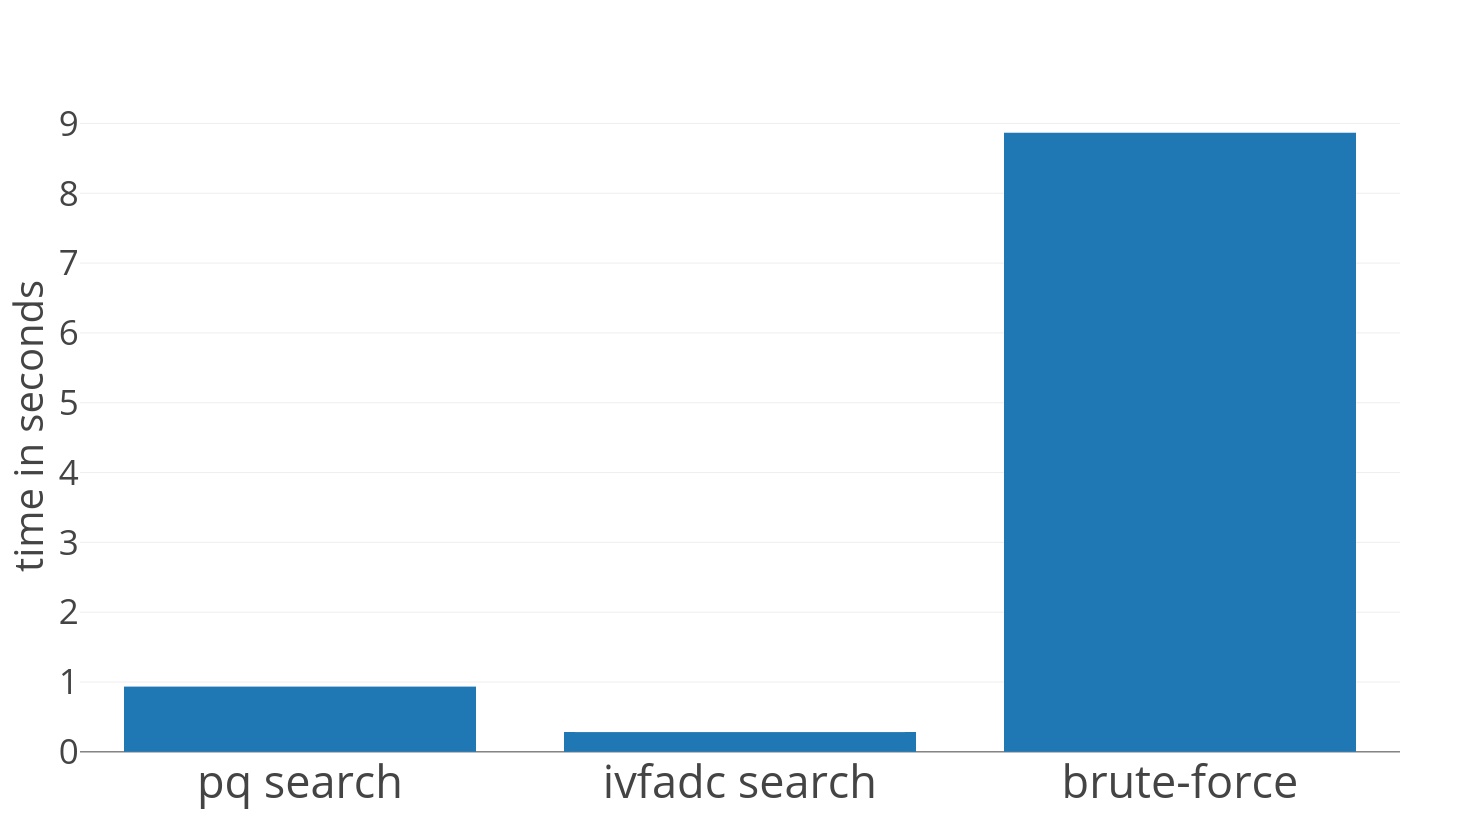
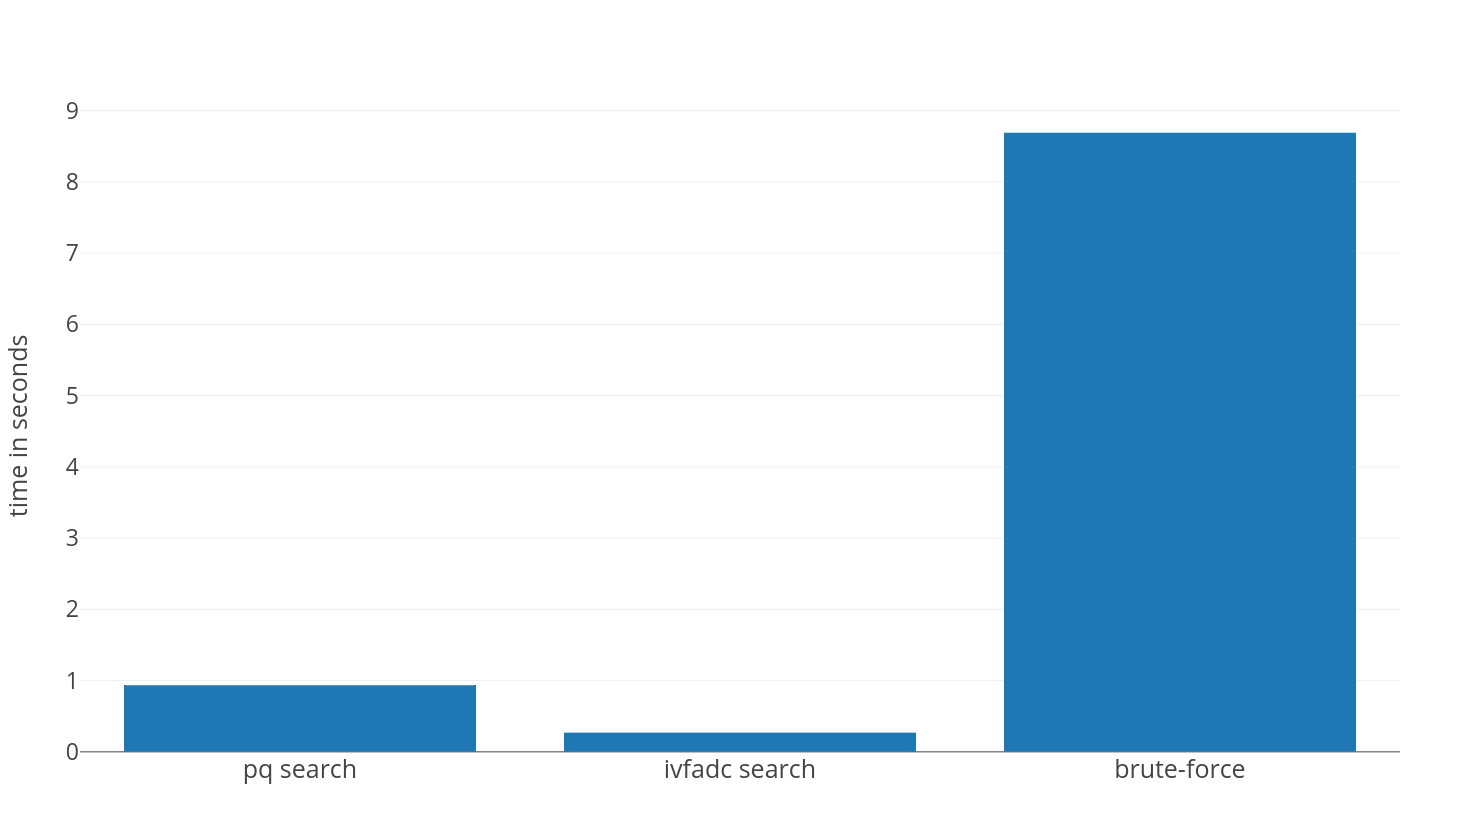
update time measurement graphic and README

diff --git a/README.md b/README.md
@@ -46,6 +46,12 @@ We implemented two types of index structures to accelerate word embedding operat
 | Product Quantization  | 0.93s         | 0.30          |
 | IVFADC                | 0.27s         | 0.31          |
 
+**Parameters:**
+* Number of subvectors per vector: 12
+* Number of centroids for fine quantization (PQ and IVFADC): 256
+* Number of centroids for coarse quantization: 1000
+
+![time measurement](evaluation/time_measurment.png)
 
 ## Installation
 At first, you need to setup a [Postgres server](https://www.postgresql.org/). You have to install [faiss](https://github.com/facebookresearch/faiss) and a few other python libraries to run the import scripts.
